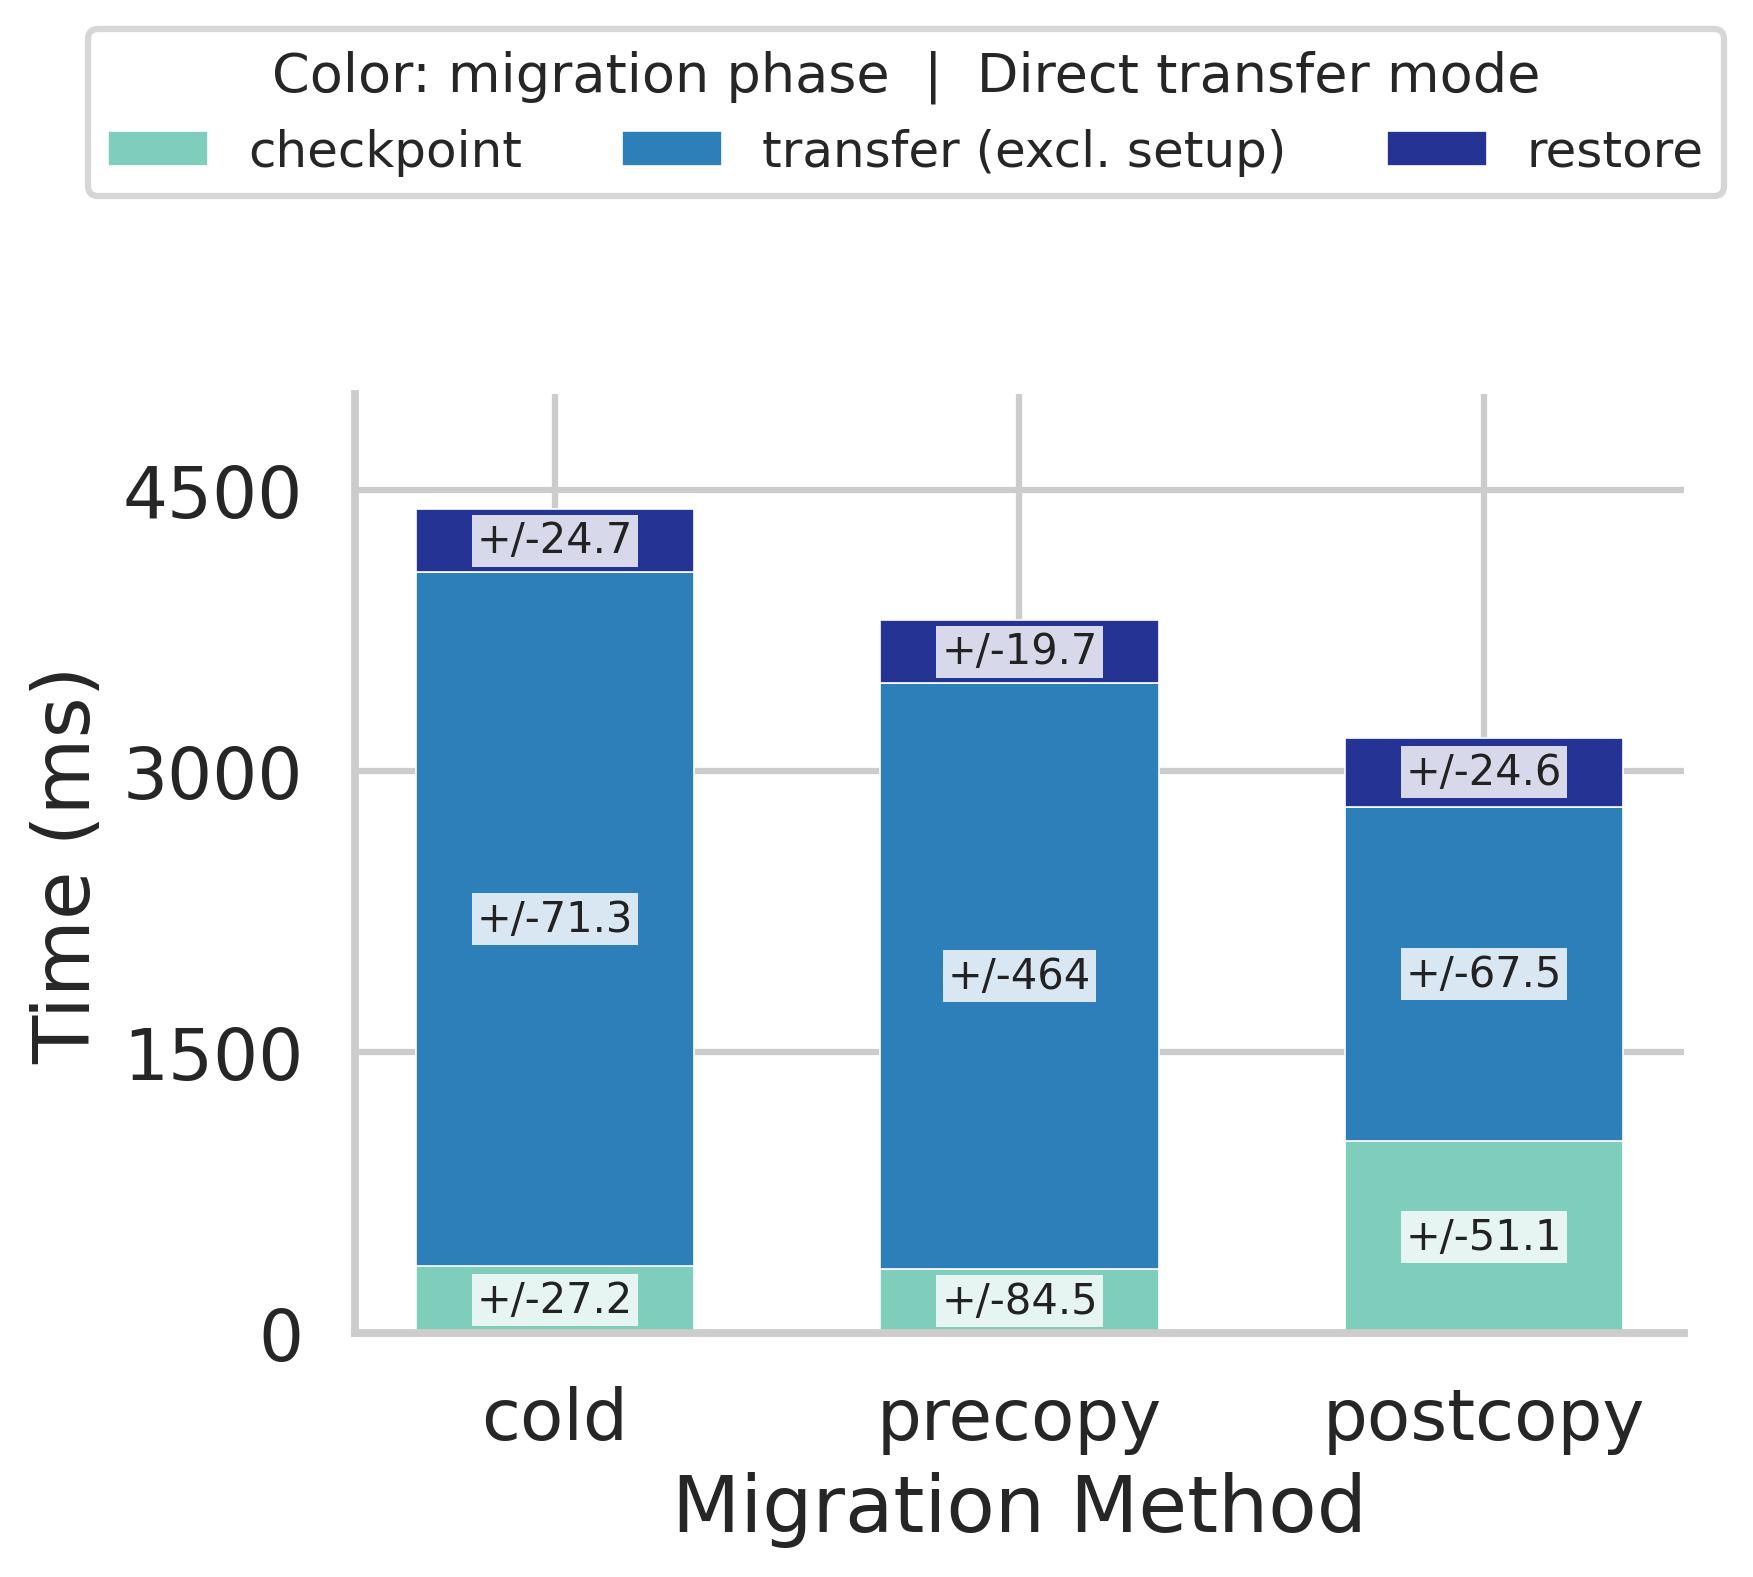
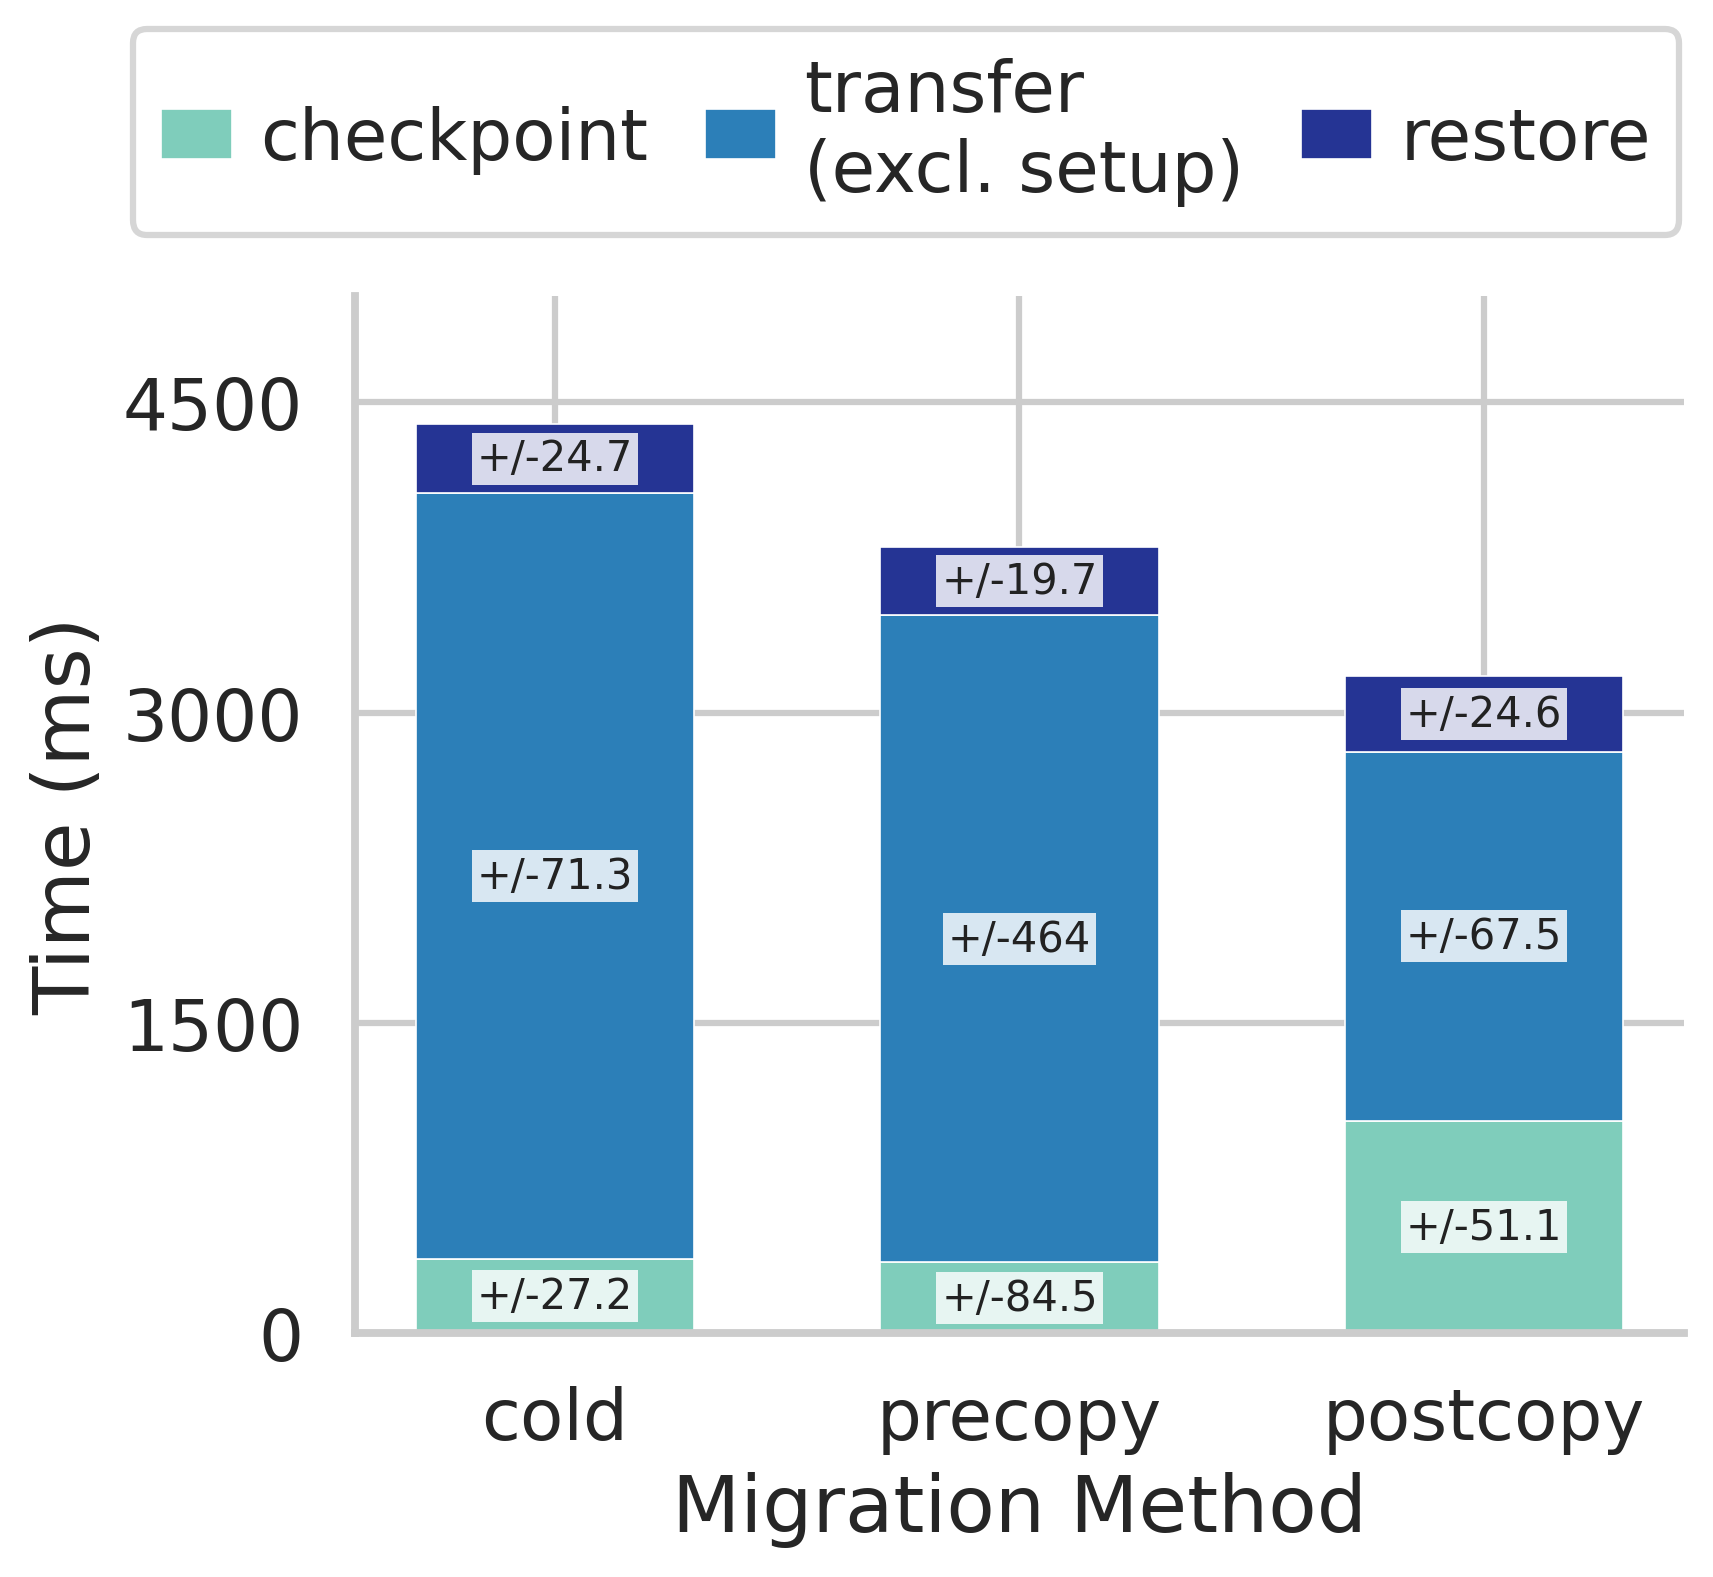
style: simplify 5G phase legend

diff --git a/Game-of-life-migration/scripts/visualization/plot_phase_breakdown.py b/Game-of-life-migration/scripts/visualization/plot_phase_breakdown.py
@@ -45,6 +45,8 @@ def plot_phase_breakdown(
     show_run_status: bool = True,
     transfer_mode: str | None = None,
     square: bool = False,
+    show_legend_title: bool = True,
+    legend_fontsize: int | None = None,
 ):
     """
     Create phase breakdown stacked bar chart.
@@ -185,19 +187,32 @@ def plot_phase_breakdown(
     ax.set_xticklabels(methods, rotation=0)
     ax.tick_params(axis="both", labelsize=15 + font_offset)
     handles, labels = ax.get_legend_handles_labels()
-    legend_title = "Color: migration phase"
-    if transfer_mode:
-        legend_title += f"  |  {transfer_mode.title()} transfer mode"
-    else:
-        legend_title += "  |  Left bar: Host  |  Right bar: Direct"
+    if square and not show_legend_title:
+        labels = [
+            "transfer\n(excl. setup)" if label == "transfer (excl. setup)" else label
+            for label in labels
+        ]
+    legend_title = None
+    if show_legend_title:
+        legend_title = "Color: migration phase"
+        if transfer_mode:
+            legend_title += f"  |  {transfer_mode.title()} transfer mode"
+        else:
+            legend_title += "  |  Left bar: Host  |  Right bar: Direct"
+    effective_legend_fontsize = (
+        legend_fontsize if legend_fontsize is not None else (12 if square else 14)
+    )
     place_figure_legend(
         fig,
         handles,
         labels,
         title=legend_title,
         ncol=3,
-        fontsize=12 if square else 14,
+        fontsize=effective_legend_fontsize,
         title_fontsize=13 if square else 15,
+        handlelength=1.0 if square and not show_legend_title else 2.0,
+        columnspacing=0.8 if square and not show_legend_title else 2.0,
+        handletextpad=0.4 if square and not show_legend_title else 0.8,
     )
     if show_run_status:
         figure_note = success_note + "\nSegment labels: +/-SD (ms)"
@@ -205,7 +220,7 @@ def plot_phase_breakdown(
         bottom = 0.25 + 0.05 * figure_note.count("\n")
     else:
         bottom = 0.18
-    top = 0.76 if square else 0.69
+    top = 0.82 if square and not show_legend_title else (0.76 if square else 0.69)
     fig.subplots_adjust(
         left=0.16 if square else 0.11, right=0.98, bottom=bottom, top=top
     )

diff --git a/Game-of-life-migration/scripts/visualization/generate_all_plots.py b/Game-of-life-migration/scripts/visualization/generate_all_plots.py
@@ -87,6 +87,17 @@ def main() -> int:
         help="Render the phase breakdown with a square publication layout.",
     )
     parser.add_argument(
+        "--phase-hide-legend-title",
+        action="store_true",
+        help="Show only the phase labels in the phase-breakdown legend.",
+    )
+    parser.add_argument(
+        "--phase-legend-fontsize",
+        type=int,
+        default=None,
+        help="Override the phase-breakdown legend label size in points.",
+    )
+    parser.add_argument(
         "--transfer-phase-color-scheme",
         choices=["default", "nato"],
         default="default",
@@ -160,6 +171,8 @@ def main() -> int:
         show_run_status=not args.hide_phase_run_status,
         transfer_mode=args.phase_transfer_mode,
         square=args.phase_square,
+        show_legend_title=not args.phase_hide_legend_title,
+        legend_fontsize=args.phase_legend_fontsize,
     )
     plot_transfer_analysis(
         str(filtered_csv),

diff --git a/Game-of-life-migration/scripts/visualization/common.py b/Game-of-life-migration/scripts/visualization/common.py
@@ -247,10 +247,13 @@ def place_figure_legend(
     handles,
     labels=None,
     *,
-    title: str,
+    title: Optional[str],
     ncol: int,
     fontsize: int = PLOT_LEGEND_FONTSIZE,
     title_fontsize: int = PLOT_LEGEND_TITLE_FONTSIZE,
+    handlelength: float = 2.0,
+    columnspacing: float = 2.0,
+    handletextpad: float = 0.8,
 ):
     """Place a CDF-style boxed legend above a compact figure."""
     return fig.legend(
@@ -264,6 +267,9 @@ def place_figure_legend(
         ncol=max(1, ncol),
         fontsize=fontsize,
         title_fontsize=title_fontsize,
+        handlelength=handlelength,
+        columnspacing=columnspacing,
+        handletextpad=handletextpad,
     )
 
 
